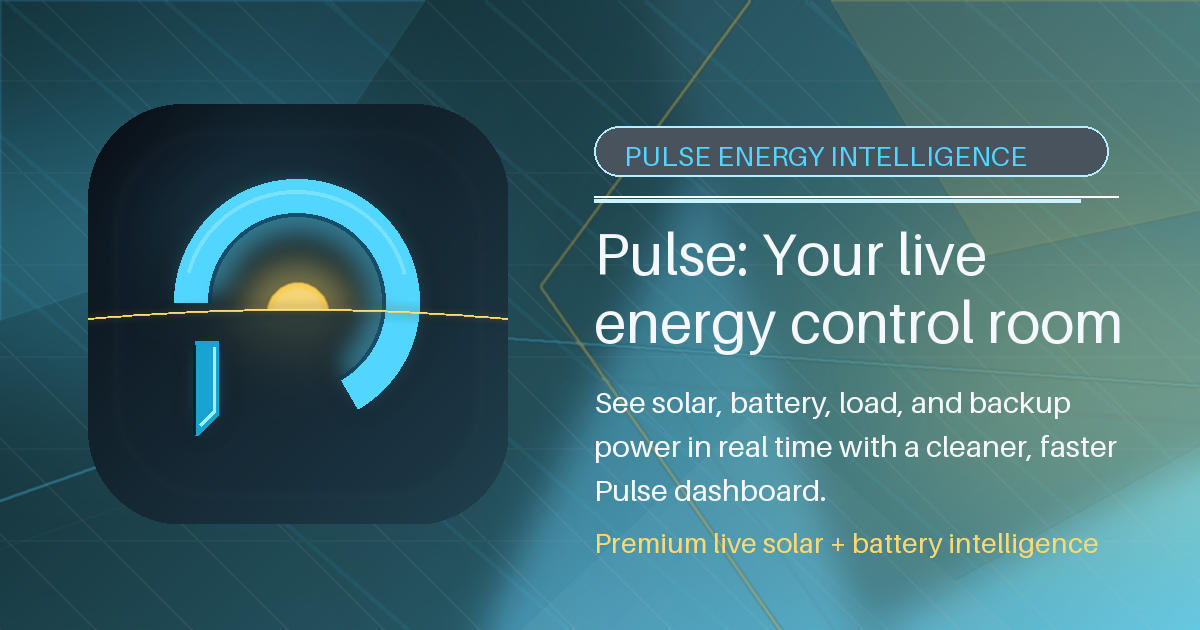
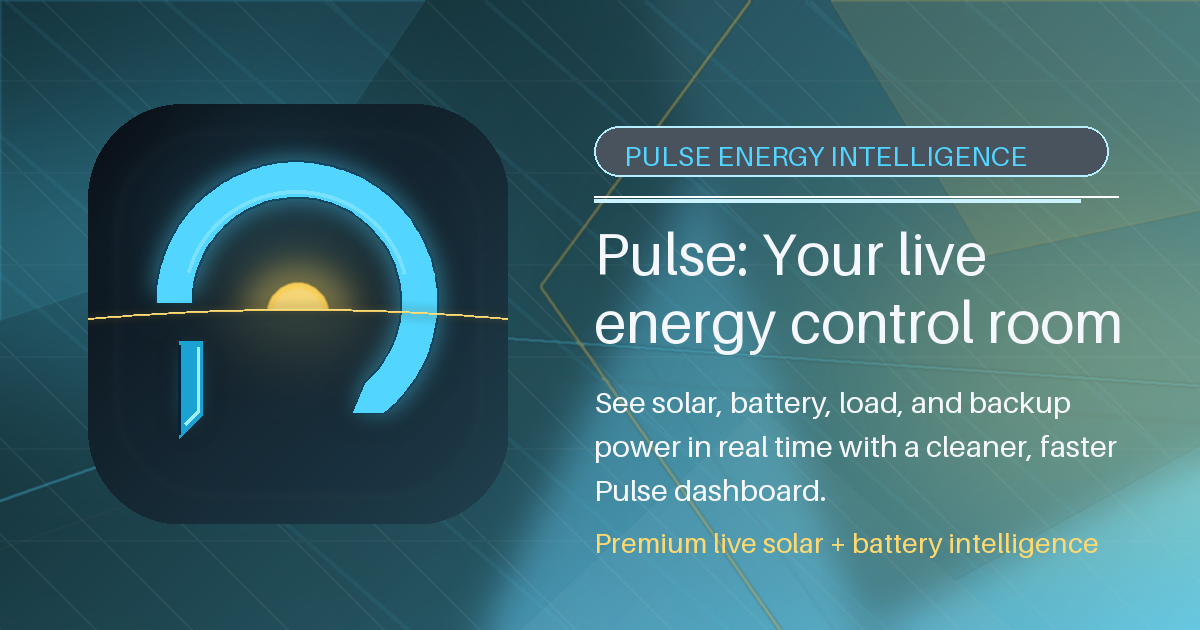
Refine Horizon Cut PulseMark geometry

Changed region(s): [[0.1233, 0.2413, 0.37, 0.6635], [0.1233, 0.5429, 0.185, 0.6937]]

diff --git a/apps/universal/scripts/generate_app_icons.py b/apps/universal/scripts/generate_app_icons.py
@@ -3,6 +3,7 @@ from __future__ import annotations
 
 from pathlib import Path
 import json
+import math
 
 from PIL import Image, ImageChops, ImageDraw, ImageFilter
 
@@ -105,6 +106,55 @@ def draw_arc_stroke(
     image.alpha_composite(layer)
 
 
+def arc_point(
+    center_x: float,
+    center_y: float,
+    radius_x: float,
+    radius_y: float,
+    degrees: float,
+) -> tuple[float, float]:
+    radians = math.radians(degrees)
+    return (center_x + radius_x * math.cos(radians), center_y + radius_y * math.sin(radians))
+
+
+def draw_tapered_arc(
+    image: Image.Image,
+    bbox: tuple[float, float, float, float],
+    start_degrees: float,
+    end_degrees: float,
+    color: tuple[int, int, int, int],
+    width: int,
+    blur_radius: int = 0,
+) -> None:
+    left, top, right, bottom = bbox
+    center_x = (left + right) / 2
+    center_y = (top + bottom) / 2
+    radius_x = (right - left) / 2
+    radius_y = (bottom - top) / 2
+    half_width = width / 2
+    steps = 112
+    angles = [start_degrees + (end_degrees - start_degrees) * i / steps for i in range(steps + 1)]
+    outer = [
+        arc_point(center_x, center_y, radius_x + half_width, radius_y + half_width, angle)
+        for angle in angles
+    ]
+    inner = [
+        arc_point(center_x, center_y, radius_x - half_width, radius_y - half_width, angle)
+        for angle in reversed(angles[:-3])
+    ]
+    tangent_radians = math.radians(end_degrees)
+    tip = (
+        center_x + radius_x * math.cos(tangent_radians) - math.sin(tangent_radians) * width * 0.42,
+        center_y + radius_y * math.sin(tangent_radians) + math.cos(tangent_radians) * width * 0.42,
+    )
+    layer = make_canvas(image.size[0])
+    draw = ImageDraw.Draw(layer)
+    draw.polygon([*outer[:-2], tip, *inner], fill=color)
+    if blur_radius:
+        layer = layer.filter(ImageFilter.GaussianBlur(blur_radius))
+    image.alpha_composite(layer)
+
+
 def horizon_y(size: int, x: float) -> float:
     center = size * 0.5
     span = size * 0.62
@@ -132,9 +182,9 @@ def draw_horizon_cut_motif(image: Image.Image, size: int, pulse_alpha: int = 255
     arc_width = max(34, int(size * 0.061))
     arc_bbox = (size * 0.205, size * 0.18, size * 0.79, size * 0.765)
 
-    draw_arc_stroke(image, arc_bbox, 180, 420, hex_rgba(CYAN, min(106, pulse_alpha)), arc_width + max(28, size // 22), int(size * 0.034))
-    draw_arc_stroke(image, arc_bbox, 180, 420, hex_rgba("#083c58", min(172, pulse_alpha)), arc_width + max(4, size // 180))
-    draw_arc_stroke(image, arc_bbox, 180, 420, hex_rgba(CYAN, min(255, pulse_alpha)), arc_width)
+    draw_tapered_arc(image, arc_bbox, 180, 416, hex_rgba(CYAN, min(106, pulse_alpha)), arc_width + max(28, size // 22), int(size * 0.034))
+    draw_tapered_arc(image, arc_bbox, 180, 416, hex_rgba("#083c58", min(172, pulse_alpha)), arc_width + max(4, size // 180))
+    draw_tapered_arc(image, arc_bbox, 180, 416, hex_rgba(CYAN, min(255, pulse_alpha)), arc_width)
     draw_arc_stroke(
         image,
         (size * 0.228, size * 0.205, size * 0.765, size * 0.73),
@@ -145,23 +195,22 @@ def draw_horizon_cut_motif(image: Image.Image, size: int, pulse_alpha: int = 255
     )
 
     stem = [
-        (size * 0.255, size * 0.565),
-        (size * 0.31, size * 0.565),
-        (size * 0.31, size * 0.742),
-        (size * 0.262, size * 0.79),
-        (size * 0.255, size * 0.79),
+        (size * 0.218, size * 0.565),
+        (size * 0.273, size * 0.565),
+        (size * 0.273, size * 0.742),
+        (size * 0.218, size * 0.797),
     ]
     stem_glow = make_canvas(size)
     ImageDraw.Draw(stem_glow).polygon(stem, fill=hex_rgba(CYAN, min(132, pulse_alpha)))
     image.alpha_composite(stem_glow.filter(ImageFilter.GaussianBlur(int(size * 0.032))))
     draw.polygon(stem, fill=hex_rgba("#1aa3d2", min(246, pulse_alpha)))
     draw.line(
-        [(size * 0.301, size * 0.58), (size * 0.301, size * 0.732), (size * 0.268, size * 0.765)],
+        [(size * 0.264, size * 0.58), (size * 0.264, size * 0.732), (size * 0.232, size * 0.764)],
         fill=hex_rgba("#9eefff", min(100, pulse_alpha)),
         width=max(3, size // 210),
     )
     draw.line(
-        [(size * 0.254, size * 0.574), (size * 0.254, size * 0.786)],
+        [(size * 0.217, size * 0.574), (size * 0.217, size * 0.786)],
         fill=hex_rgba("#062238", min(160, pulse_alpha)),
         width=max(3, size // 190),
     )
@@ -276,8 +325,8 @@ def build_master_svg() -> str:
   </defs>
   <rect width="1024" height="1024" rx="230" fill="url(#tile)"/>
   <rect x="61" y="61" width="902" height="902" rx="246" fill="#132033" fill-opacity="0.12" stroke="#f4f7fb" stroke-opacity="0.08" stroke-width="5"/>
-  <path d="M214 536C204 345 333 209 512 211C706 214 826 382 773 571C749 657 682 720 599 735" fill="none" stroke="url(#cyanStroke)" stroke-width="62" stroke-linecap="round" filter="url(#cyanGlow)"/>
-  <path d="M261 579H317V760L268 809H261Z" fill="url(#cyanStroke)" filter="url(#cyanGlow)"/>
+  <path d="M179 497C179 310 326 180 512 180C715 180 845 354 805 556C782 667 711 733 610 770C648 710 697 655 722 549C756 406 667 247 512 247C366 247 241 352 241 497Z" fill="url(#cyanStroke)" filter="url(#cyanGlow)"/>
+  <path d="M223 579H280V760L223 817Z" fill="url(#cyanStroke)" filter="url(#cyanGlow)"/>
   <circle cx="512" cy="499" r="76" fill="url(#sun)" clip-path="url(#aboveHorizon)" filter="url(#goldGlow)"/>
   <path d="M0 546C238 512 402 501 512 500C686 498 842 511 1024 536" fill="none" stroke="{GOLD}" stroke-width="4" stroke-linecap="round" filter="url(#goldGlow)"/>
 </svg>
